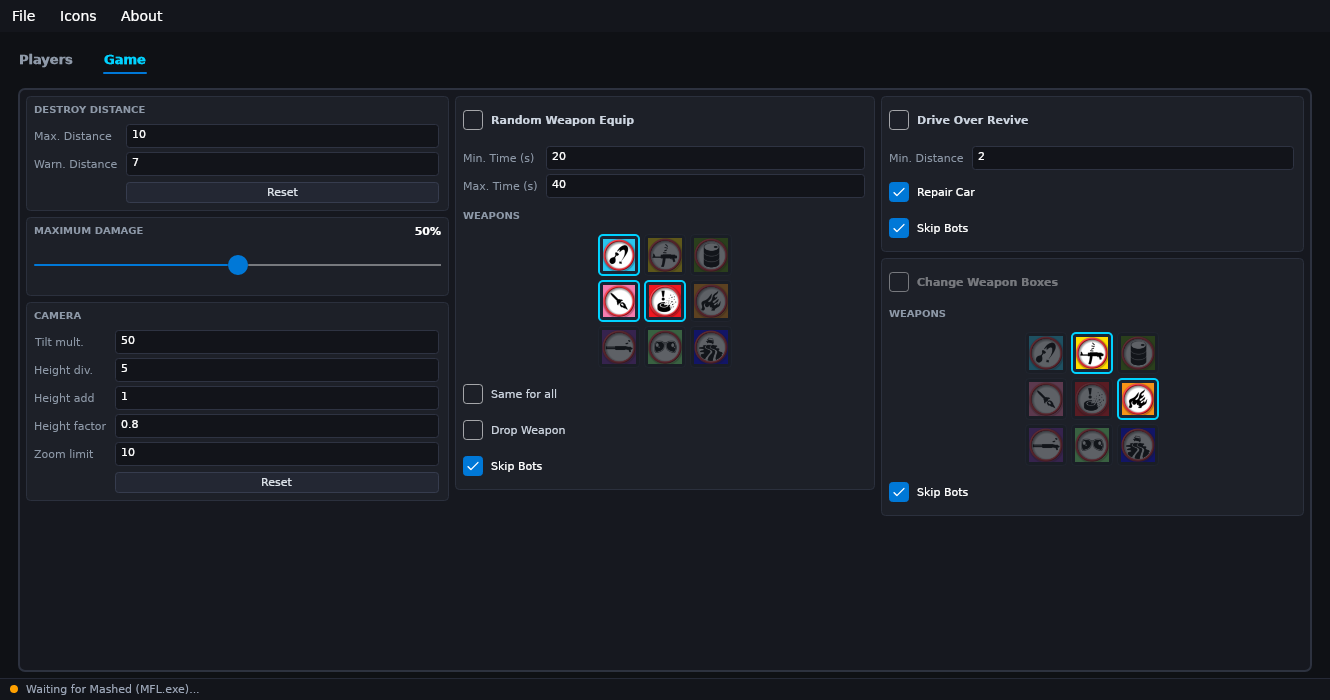
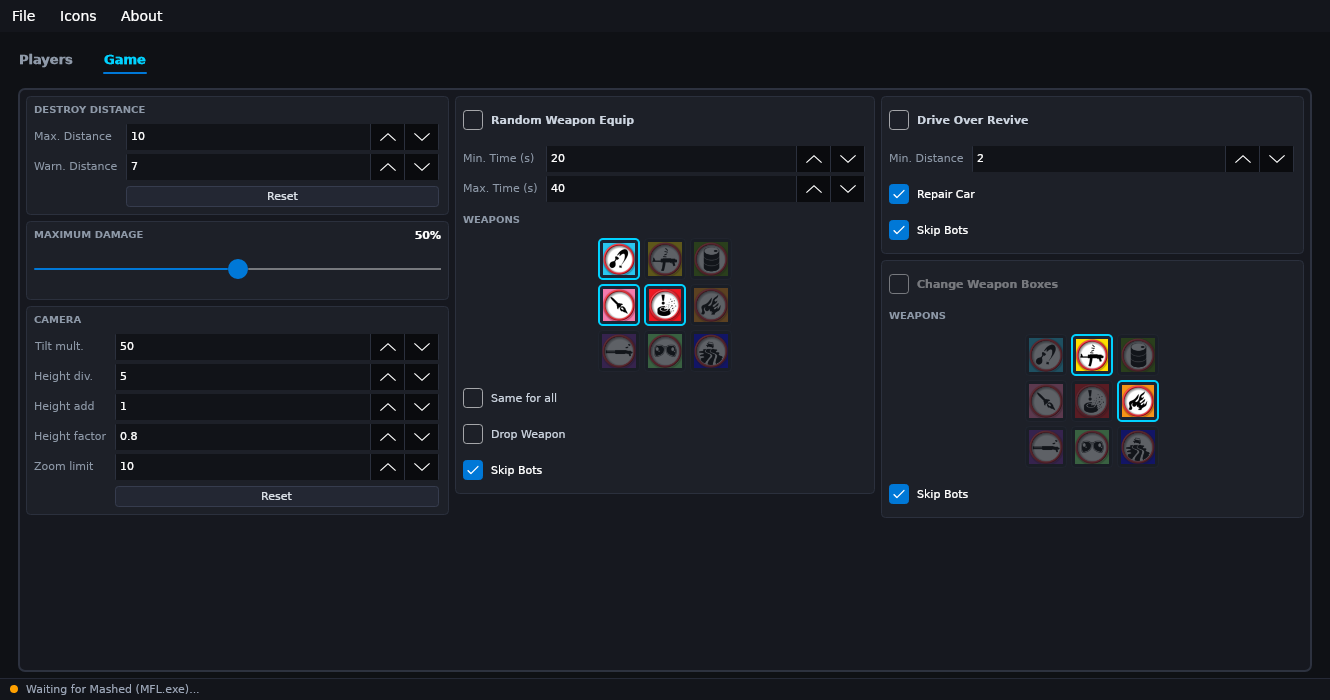
Update README and screenshots

diff --git a/README.md b/README.md
@@ -27,6 +27,10 @@ The trainer is distributed in two builds on each release:
 
 ## Features
 
+### General
+- **Icon Packs**: Switch weapon icons between the in-game look (default) and the classic set via the *Icons* menu
+- **Status Bar**: Shows connection state and tells you when memory writes fail (run the trainer as administrator in that case); controls stay disabled until Mashed is found
+
 ### Player (Per-Player Controls for P1–P4)
 - **Score**: Change and freeze points
 - **Revive**: Instant respawn and revive toggle
@@ -35,6 +39,8 @@ The trainer is distributed in two builds on each release:
 - **Weapons**: Equip any of the 9 weapons instantly, or drop active weapon
 - **Damage**: Adjust front and back damage sliders, toggle individual damage parts (Hood, Trunk, Glass), and 1-click Full Repair
 - **Car Physics**: 1-click **Flip** (rights an upside-down car) and **Turn 180°**
+- **God Mode**: Per-player option that keeps the car fully repaired while alive
+- **Bot Badge**: Bot-controlled players are marked with a BOT tag
 
 ### Game & Camera
 - **Destroy Distance**: Customize warning threshold and maximum elimination distance
@@ -67,6 +73,15 @@ The trainer features a built-in memory target simulator (`MockMemoryTarget`) tha
 ---
 
 ## ChangeLog
+
+### v0.2.1 (unreleased)
+- **Icon Packs**: New *Icons* menu with in-game (default) and classic weapon icons.
+- **God Mode**: Per-player option that keeps the car repaired.
+- **Bot Badge**: Bot players are marked in the Players tab.
+- **Numeric Inputs**: Game tab values use validated numeric spinners with limits.
+- **Status Feedback**: Controls are disabled until Mashed is attached; failed memory writes and multiple MFL.exe instances are reported in the status bar.
+- **Fixes**: Fixed a PropertyChanged handler leak on reconnect; process detection now polls once per second while detached.
+- **Simulator**: *About > Toggle Mock Game Mode* switches the built-in simulator on and off (on by default outside Windows).
 
 ### v0.2.0 (2026-10-07)
 - **Platform Migration**: Completely modernized from .NET Framework 4.5 / WPF to .NET 8 / Avalonia UI.
